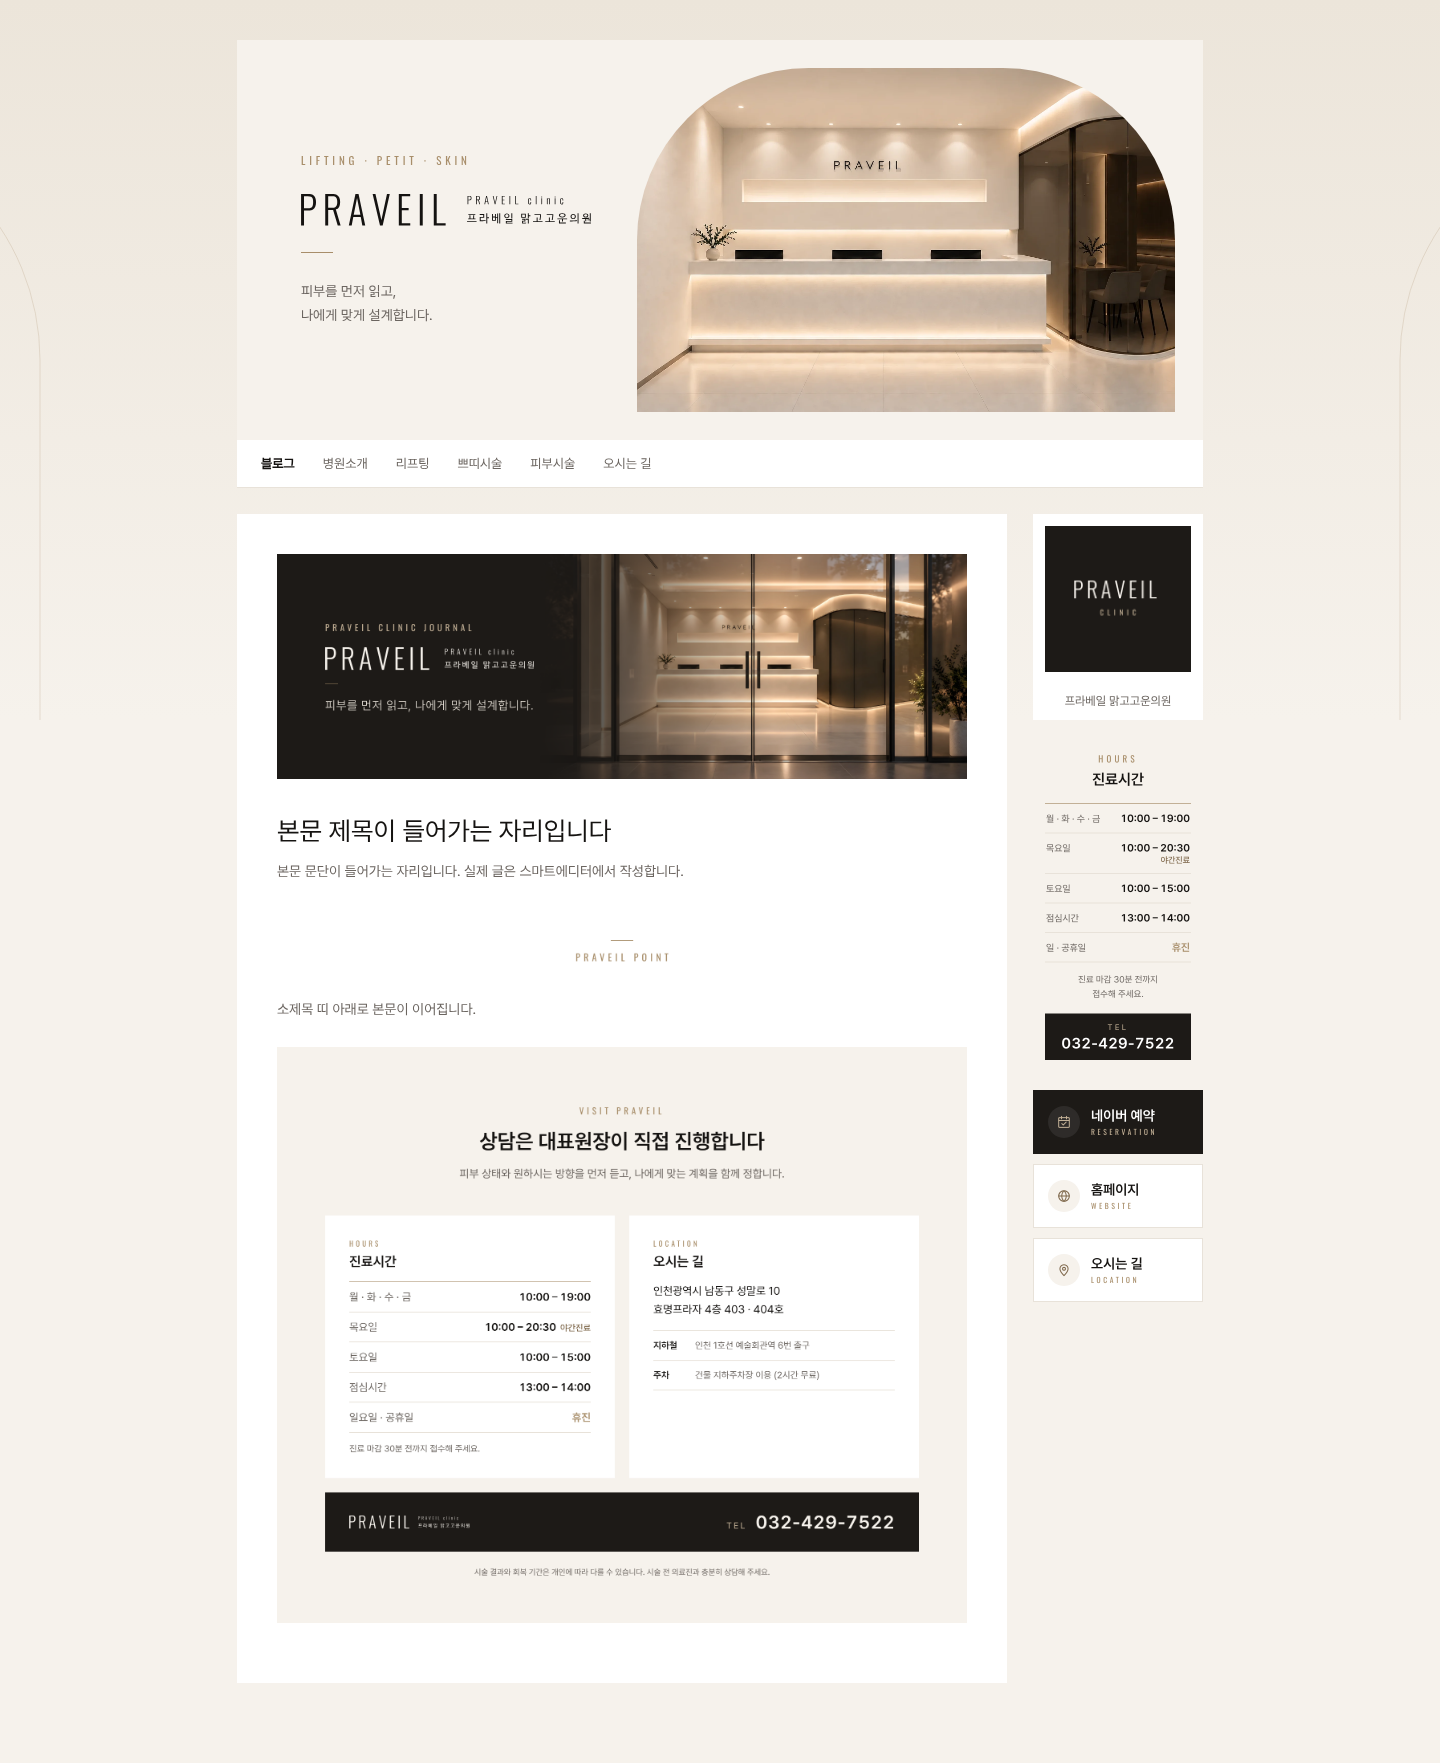
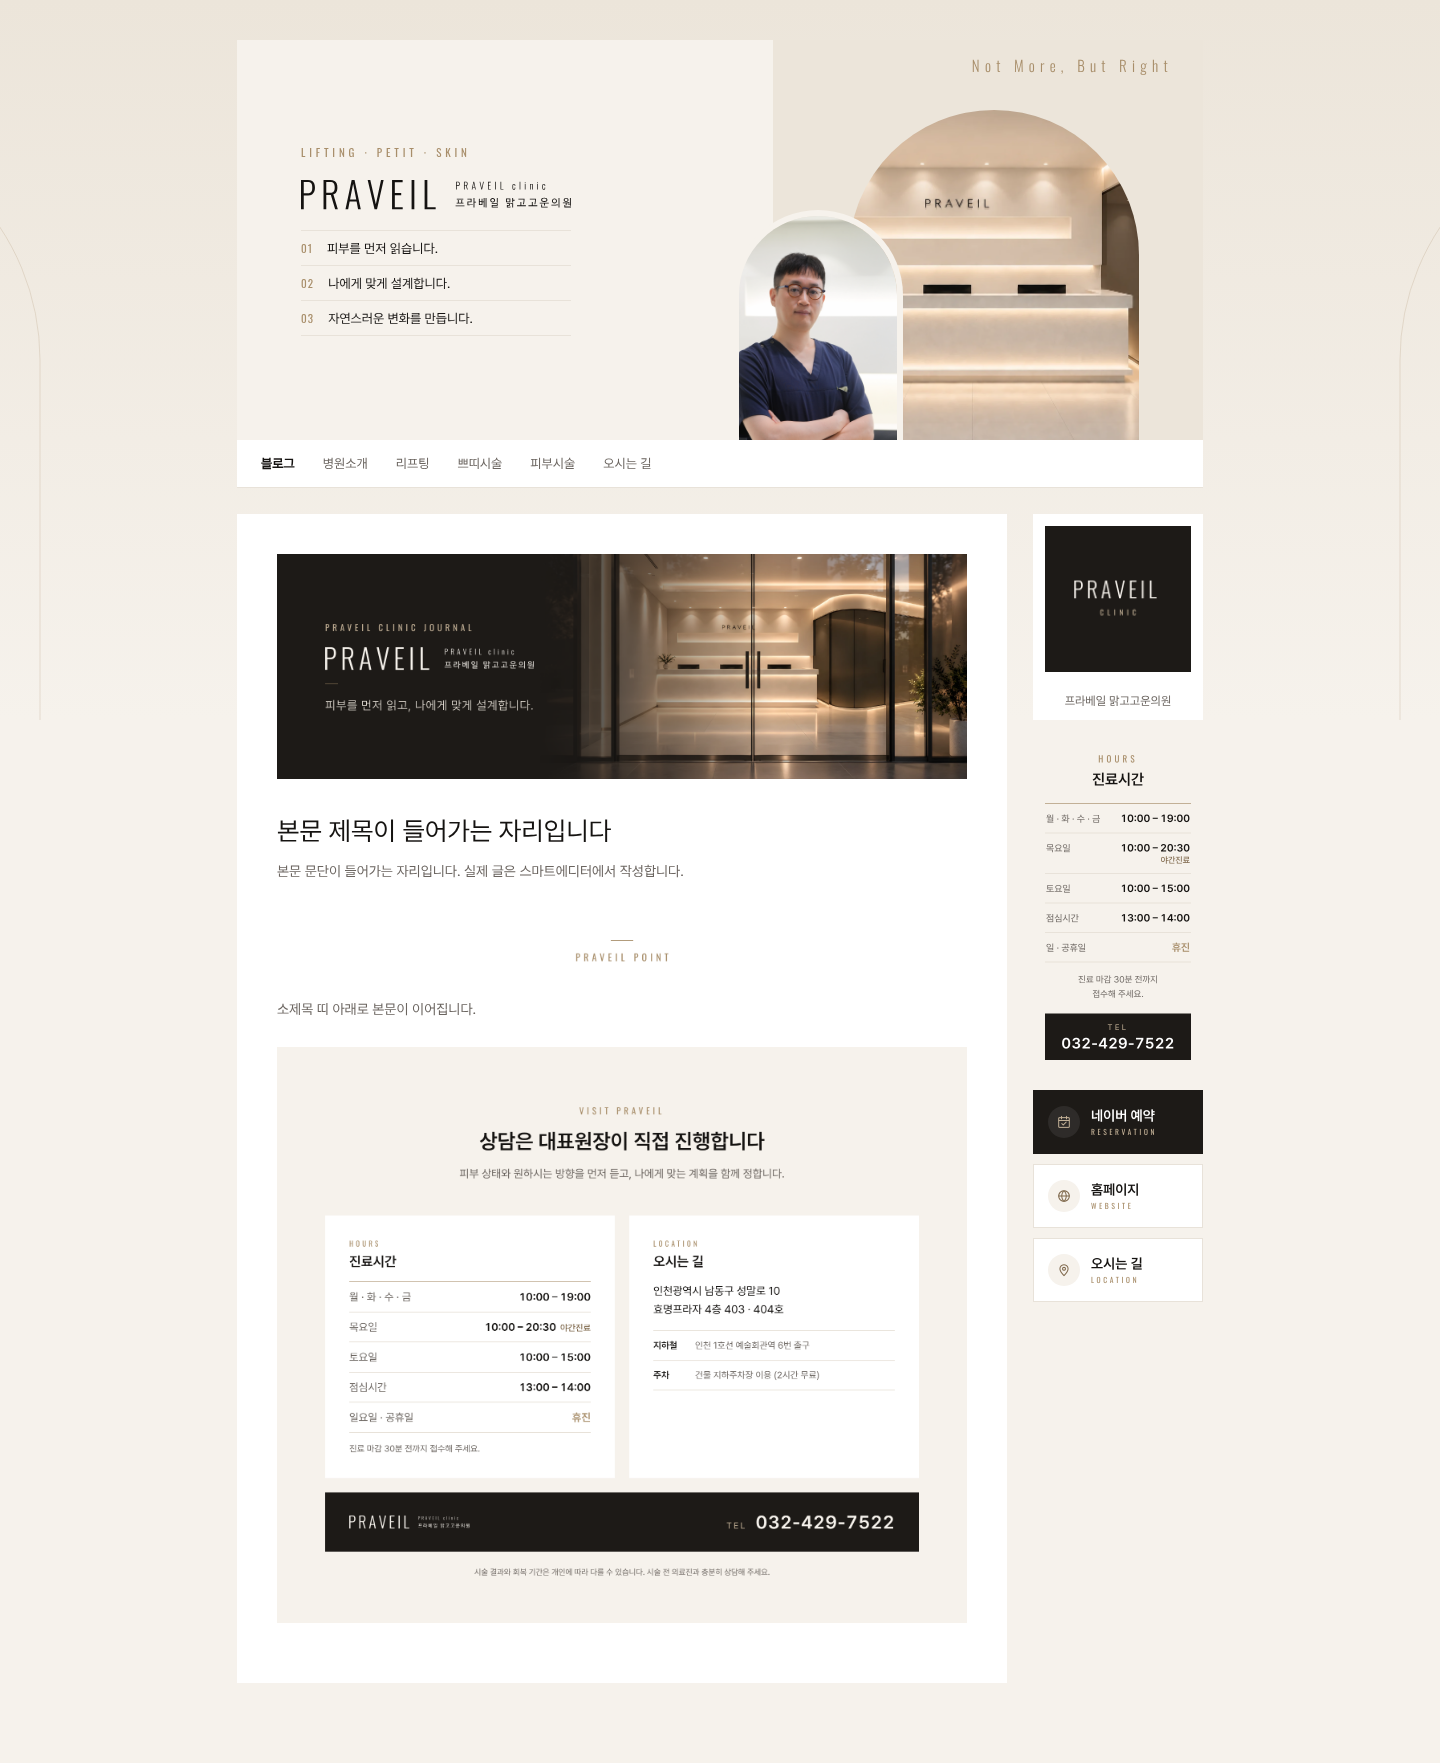
네이버 블로그 타이틀 A-3 작은 아치에 대표원장 프로필 사진
Claude-Session: https://claude.ai/code/session_01Ld2YJmc6iArSkVBjrjkKUN

Changed region(s): [[0.4375, 0.0312, 0.8438, 0.2496], [0.2188, 0.0936, 0.4062, 0.1872]]

diff --git a/docs/naver-blog-skin/skin.html b/docs/naver-blog-skin/skin.html
@@ -343,7 +343,10 @@
         border-bottom: 0;
       }
       #title-a3 .arch.small .photo {
-        object-position: 35% 30%;
+        /* 원장 세로 프로필: 얼굴 · 상반신이 보이게 확대 */
+        object-position: 50% 0%;
+        transform: scale(1.6);
+        transform-origin: 50% 22%;
       }
       #title-a3 .copy {
         gap: 20px;
@@ -985,7 +988,10 @@
         <img class="photo" src="../../public/images/photos/hero-lobby.webp" />
       </div>
       <div class="arch small">
-        <img class="photo" src="../../public/images/photos/signature-2.webp" />
+        <img
+          class="photo"
+          src="../../public/images/photos/retouched/doctor-portrait.jpg"
+        />
       </div>
     </section>
 

diff --git a/docs/naver-blog-skin/preview.html b/docs/naver-blog-skin/preview.html
@@ -83,7 +83,7 @@
   </head>
   <body>
     <div class="wrap">
-      <img src="out/title-a.png" width="966" style="display: block" />
+      <img src="out/title-a3.png" width="966" style="display: block" />
       <div class="menu">
         <b>블로그</b><span>병원소개</span><span>리프팅</span
         ><span>쁘띠시술</span><span>피부시술</span><span>오시는 길</span>

diff --git a/docs/naver-blog-skin/README.md b/docs/naver-blog-skin/README.md
@@ -1,7 +1,7 @@
 # 프라베일 네이버 블로그 스킨
 
 홈페이지(praveil.com)와 같은 색 · 글꼴 · 사진으로 만든 네이버 블로그 꾸미기 세트입니다.
-완성 모습은 `out/preview.png`(타이틀 시안 A), 타이틀 시안 7개는 `out/title-options.png` 에서 비교할 수 있습니다.
+완성 모습은 `out/preview.png`(타이틀 시안 A-3), 타이틀 시안 7개는 `out/title-options.png` 에서 비교할 수 있습니다.
 
 ## 파일
 
@@ -39,7 +39,7 @@
 | A    | 아이보리 바탕 + 아치 모양 로비 사진                                | 밝게 (바탕 `#ffffff`)                   |
 | A-1  | A + 겹친 아치 선 · 작은 아치 사진 · 키워드 3개 · 큰 영문 바탕 글자 | 밝게 (바탕 `#ffffff`)                   |
 | A-2  | A + 아래 진료시간 · 전화 띠                                        | 어둡게 (띠와 이어지게 바탕 `#1d1a17`)   |
-| A-3  | A + 철학 3줄 · 로비와 원장 진료 두 아치                            | 밝게 (바탕 `#ffffff`)                   |
+| A-3  | A + 철학 3줄 · 로비와 대표원장 프로필 두 아치                      | 밝게 (바탕 `#ffffff`)                   |
 | B    | 입구 사진을 넓게 + 왼쪽 어둡게                                     | 어둡게 (바탕 `#1d1a17`, 글자 `#c2b096`) |
 | C    | 가운데 로고 + 아치 사진 세 장                                      | 밝게 (바탕 `#ffffff`)                   |
 | D    | 짙은 바탕 + 오른쪽 대기실 사진                                     | 어둡게 (바탕 `#1d1a17`, 글자 `#c2b096`) |
